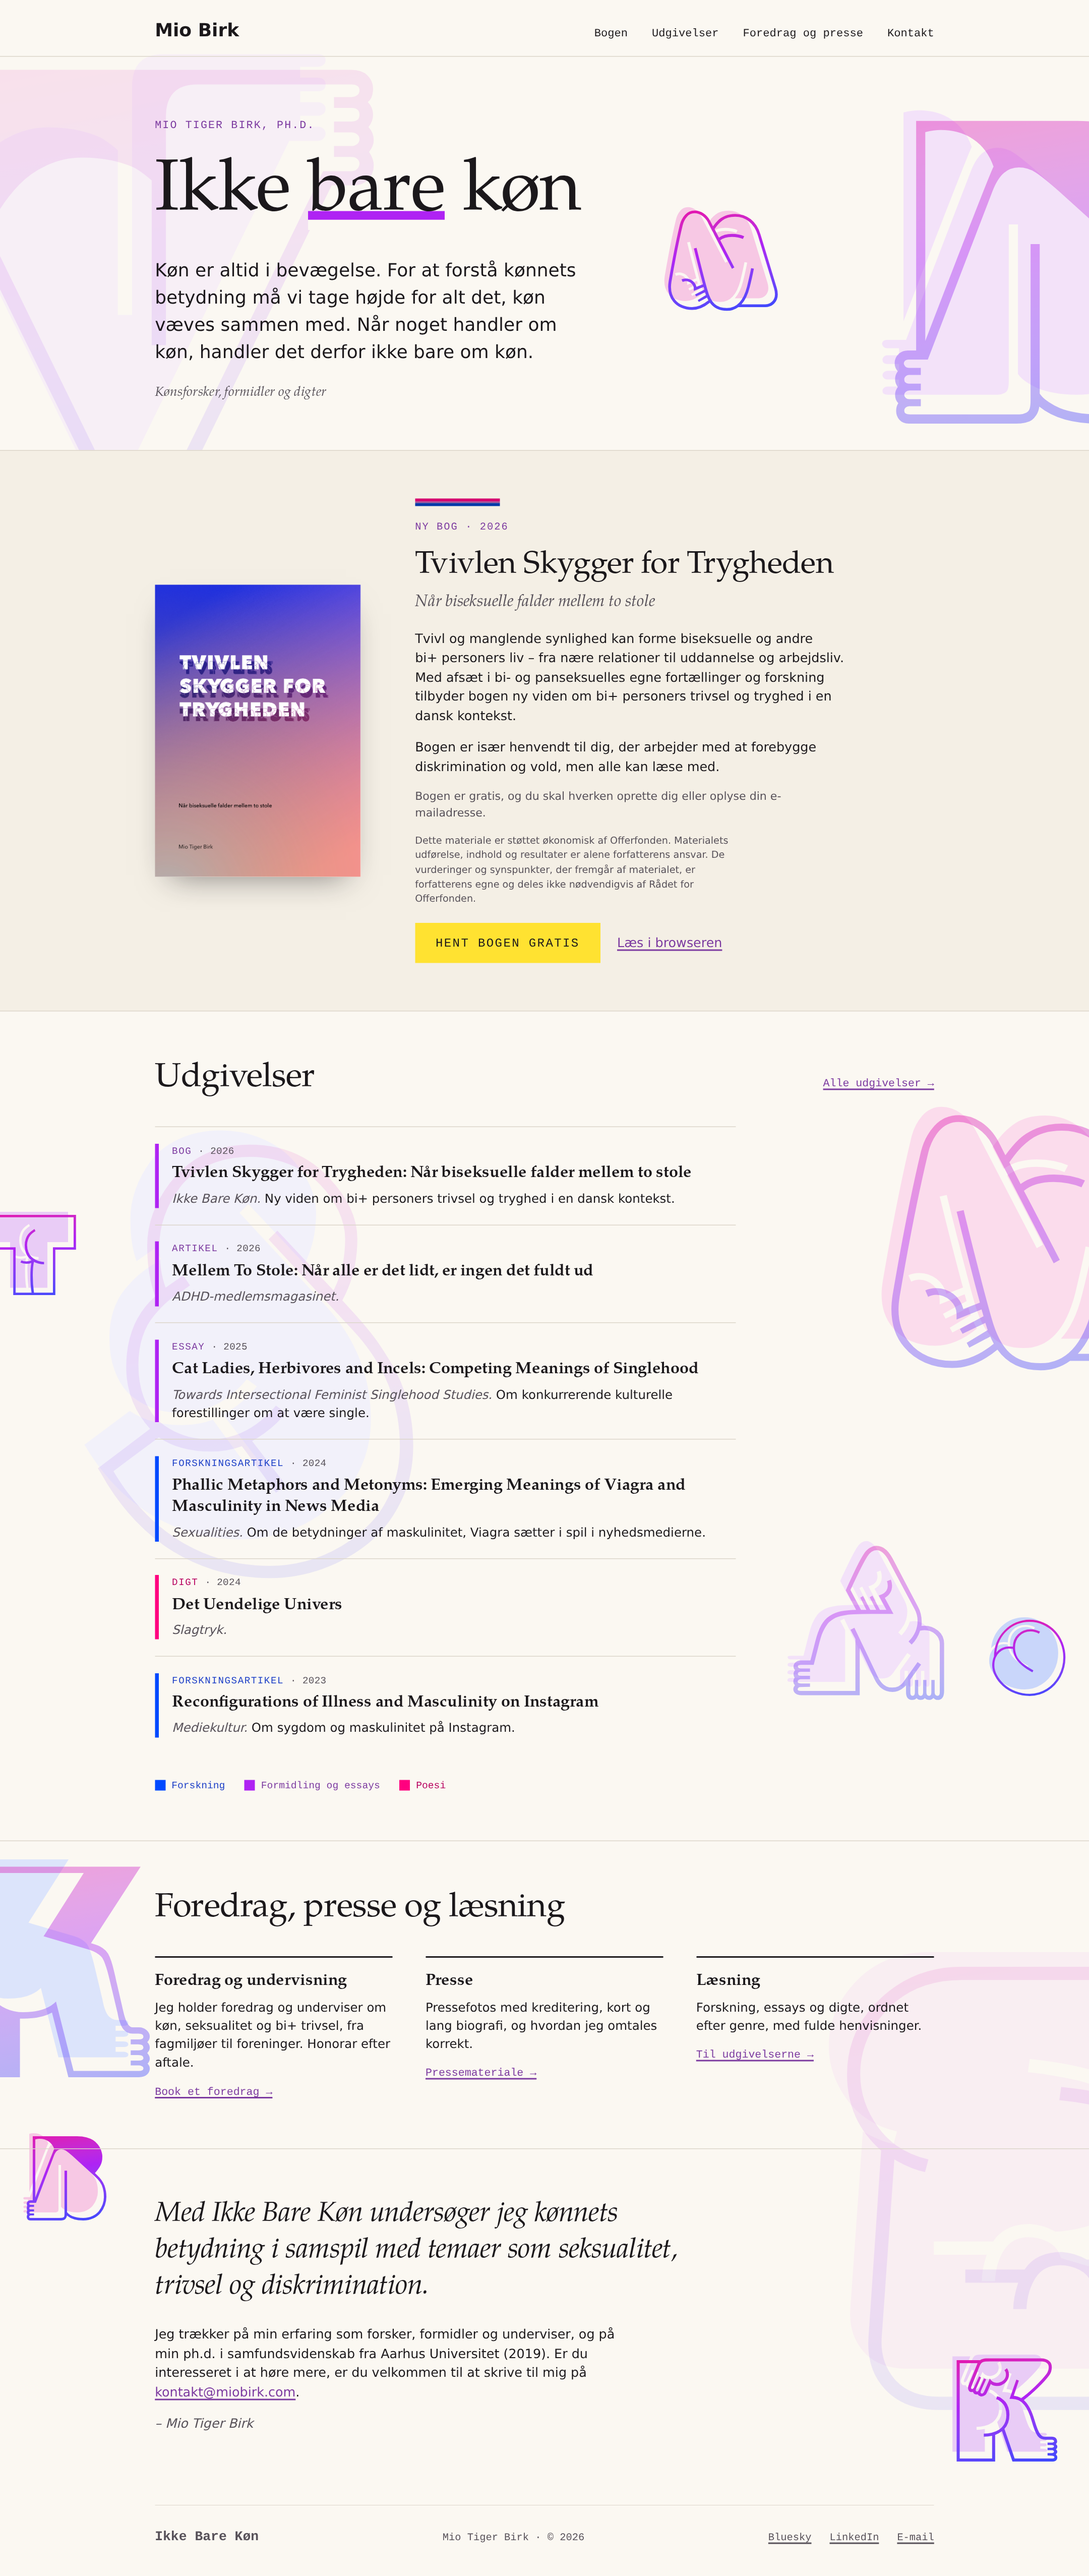
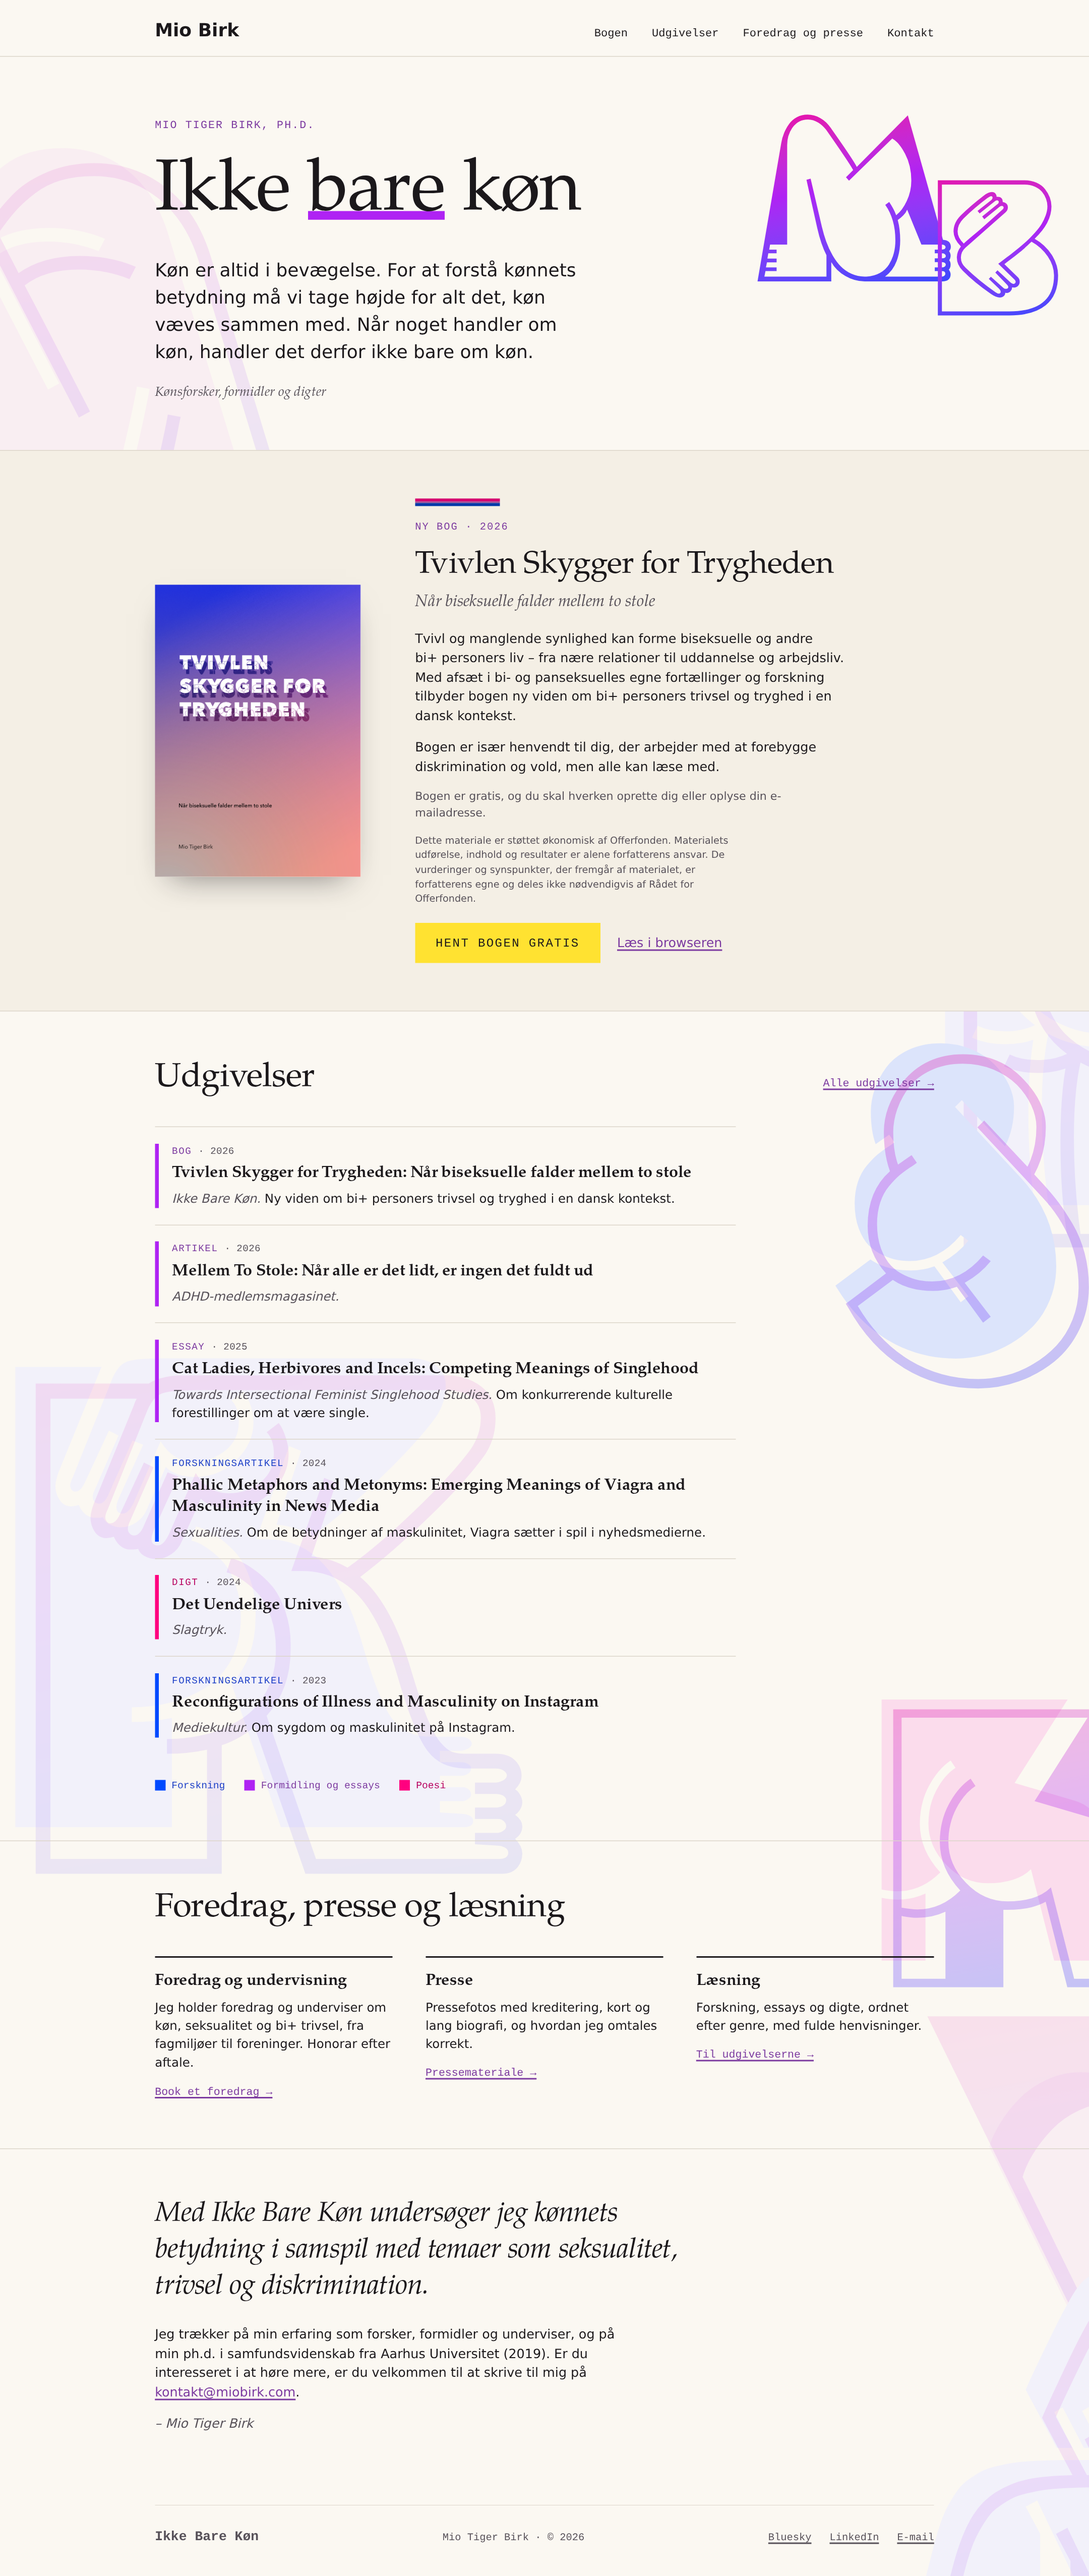
Background: only very large randomised shapes; hero gets an outline duo
Ole found the small pieces too small. The parallax background now
carries only very large shapes (30 to 58rem, eight pieces), positions
generated from a seeded random scatter and nudged to overlap in
pairs; the biggest are almost imperceptible ghosts, the smaller of
the large gently coloured, all pale enough for ink text above. The
small coloured pieces are gone. In their place the hero carries its
own pair: two partially overlapping outline-only Claire-Obscure
glyphs at medium size in the full gradient, no solid layer.

Claude-Session: https://claude.ai/code/session_01J3ibStbM354Uyysr7SDB7m

diff --git a/design/directions/retning-7-overlappet.html b/design/directions/retning-7-overlappet.html
@@ -98,33 +98,29 @@ a:focus-visible{outline:2.5px solid var(--ink);outline-offset:3px}
 }
 .f-pleine{font-family:'Typefesse Pleine',sans-serif}
 .f-claire{font-family:'Typefesse Claire-Obscure',sans-serif}
-/* Inverse scale: the bigger, the fainter; the smaller, the more coloured.
-   Ghost tints sit within a whisker of the paper so ink stays legible
-   above them; full-strength colour is reserved for the small pieces in
-   the margins. */
-.i1{--open:.1}   /* ghosts: almost imperceptible */
-.i2{--open:.4}   /* mid: pale */
-.i3{--open:1}    /* small: coloured */
-/* XL ghosts, slow layer */
-.fesse.g1{font-size:56rem;top:-8rem;left:-12rem;--tint:#F7EFF6}
-.fesse.g2{font-size:48rem;top:84rem;left:4rem;--tint:#F2F1FA}
-.fesse.g3{font-size:52rem;top:150rem;right:-10rem;--tint:#F9EEF2}
-/* L and M, mid layer */
-.fesse.q1{font-size:clamp(20rem,44vw,36rem);top:1rem;right:-7rem;--tint:#F3E2F9}
-.fesse.q3{font-size:clamp(16rem,34vw,28rem);top:86rem;right:-6rem;--tint:#FBDCEC}
-.fesse.q4{font-size:clamp(14rem,30vw,25rem);top:148rem;left:-8rem;--tint:#DCE4FB}
-.fesse.m1{font-size:17rem;top:124rem;right:12rem;--tint:#F3E2F9}
-/* Small and coloured, fast layer, margins and open zones only */
-.fesse.s1{font-size:11rem;top:15rem;right:26rem;--tint:#F7C8E4}
-.fesse.s2{font-size:9.5rem;top:98rem;left:-1.5rem;--tint:#E9CCF6}
-.fesse.s3{font-size:8.5rem;top:132rem;right:2rem;--tint:#C9D6FA}
-.fesse.s4{font-size:10rem;top:174rem;left:1rem;--tint:#F7C8E4}
-.fesse.s5{font-size:12rem;top:192rem;right:3rem;--tint:#E9CCF6}
-@media (max-width:56rem){
-  .fesse.s1,.fesse.s3,.fesse.m1,.fesse.q4{display:none}
-  .fesse{opacity:.6}
-  .fesse.g1,.fesse.g2,.fesse.g3{opacity:1}
-}
+/* Only very large shapes in the background, positions from a seeded
+   random scatter (seed 2026), overlapping in pairs. The biggest are
+   almost imperceptible (ghost tints, outline .1); the smaller of the
+   large are gently coloured (outline .3). All pale enough that ink
+   text stays legible above them. */
+.fesse.r0{font-size:51rem;top:1rem;left:-23rem;--tint:#F9EEF2}
+.fesse.r1{font-size:32rem;top:31rem;left:-6rem;--tint:#FBDCEC}
+.fesse.r2{font-size:53rem;top:53rem;right:-18rem;--tint:#F2F1FA}
+.fesse.r3{font-size:37rem;top:79rem;right:-0rem;--tint:#DCE4FB}
+.fesse.r4{font-size:58rem;top:100rem;left:-4rem;--tint:#F2F1FA}
+.fesse.r5{font-size:33rem;top:133rem;right:-6rem;--tint:#FBDCEC}
+.fesse.r6{font-size:55rem;top:153rem;right:-24rem;--tint:#F9EEF2}
+.fesse.r7{font-size:50rem;top:178rem;right:-20rem;--tint:#F2F1FA}
+@media (max-width:56rem){.fesse{opacity:.7}}
+/* The hero's own pair: two partially overlapping outline-only glyphs at
+   medium size, full gradient, no solid layer. */
+.hero{overflow:hidden}
+.hero .duo{position:absolute;line-height:1;pointer-events:none;user-select:none;
+  background:linear-gradient(170deg,var(--rosa) 0%,var(--lilla) 48%,var(--blaa) 100%);
+  -webkit-background-clip:text;background-clip:text;color:transparent}
+.hero .duo1{font-family:'Typefesse Claire-Obscure',sans-serif;font-size:clamp(11rem,24vw,19rem);top:1.5rem;right:11rem}
+.hero .duo2{font-family:'Typefesse Claire-Obscure',sans-serif;font-size:clamp(9rem,20vw,16rem);top:7rem;right:2rem}
+@media (max-width:56rem){.hero .duo1{right:-4rem}.hero .duo2{display:none}}
 header,main,footer{position:relative;z-index:1}
 
 /* Masthead */
@@ -232,22 +228,16 @@ footer .flinks{display:flex;gap:1.5rem}
 
 <div class="fesse-sky" aria-hidden="true">
   <div class="fesse-layer" data-speed="0.12">
-    <span class="fesse g1"><b class="f-pleine f-solid">V</b><b class="f-claire f-open i1">V</b></span>
-    <span class="fesse g2"><b class="f-pleine f-solid">s</b><b class="f-claire f-open i1">s</b></span>
-    <span class="fesse g3"><b class="f-pleine f-solid">e</b><b class="f-claire f-open i1">e</b></span>
+    <span class="fesse r0"><b class="f-pleine f-solid">m</b><b class="f-claire f-open" style="--open:.1">m</b></span>
+    <span class="fesse r2"><b class="f-pleine f-solid">t</b><b class="f-claire f-open" style="--open:.1">t</b></span>
+    <span class="fesse r4"><b class="f-pleine f-solid">k</b><b class="f-claire f-open" style="--open:.1">k</b></span>
+    <span class="fesse r6"><b class="f-pleine f-solid">V</b><b class="f-claire f-open" style="--open:.1">V</b></span>
+    <span class="fesse r7"><b class="f-pleine f-solid">a</b><b class="f-claire f-open" style="--open:.1">a</b></span>
   </div>
-  <div class="fesse-layer" data-speed="0.26">
-    <span class="fesse q1"><b class="f-pleine f-solid">B</b><b class="f-claire f-open i2">B</b></span>
-    <span class="fesse q3"><b class="f-pleine f-solid">m</b><b class="f-claire f-open i2">m</b></span>
-    <span class="fesse q4"><b class="f-pleine f-solid">K</b><b class="f-claire f-open i2">K</b></span>
-    <span class="fesse m1"><b class="f-pleine f-solid">a</b><b class="f-claire f-open i2">a</b></span>
-  </div>
-  <div class="fesse-layer" data-speed="0.4">
-    <span class="fesse s1"><b class="f-pleine f-solid">m</b><b class="f-claire f-open i3">m</b></span>
-    <span class="fesse s2"><b class="f-pleine f-solid">t</b><b class="f-claire f-open i3">t</b></span>
-    <span class="fesse s3"><b class="f-pleine f-solid">o</b><b class="f-claire f-open i3">o</b></span>
-    <span class="fesse s4"><b class="f-pleine f-solid">B</b><b class="f-claire f-open i3">B</b></span>
-    <span class="fesse s5"><b class="f-pleine f-solid">k</b><b class="f-claire f-open i3">k</b></span>
+  <div class="fesse-layer" data-speed="0.25">
+    <span class="fesse r1"><b class="f-pleine f-solid">o</b><b class="f-claire f-open" style="--open:.3">o</b></span>
+    <span class="fesse r3"><b class="f-pleine f-solid">s</b><b class="f-claire f-open" style="--open:.3">s</b></span>
+    <span class="fesse r5"><b class="f-pleine f-solid">K</b><b class="f-claire f-open" style="--open:.3">K</b></span>
   </div>
 </div>
 
@@ -269,6 +259,8 @@ footer .flinks{display:flex;gap:1.5rem}
 
 <main id="indhold">
   <section class="hero">
+    <span class="duo duo1" aria-hidden="true">M</span>
+    <span class="duo duo2" aria-hidden="true">b</span>
     <div class="wrap">
       <p class="kicker">Mio Tiger Birk, ph.d.</p>
       <h1>Ikke <span class="u">bare</span> køn</h1>

diff --git a/design/TYPOGRAPHY-COLOUR.md b/design/TYPOGRAPHY-COLOUR.md
@@ -189,15 +189,15 @@ Charset, measured from the shipped woff2 cmaps (173 glyphs): basic Latin
 plus Western European accents; **no æ, ø, Æ or Ø** (å and Å exist).
 Vignettes therefore use base Latin characters only.
 
-The site's implementation: a document-spanning background of twelve
-compositions on an inverse size-to-colour scale. XL ghosts (48 to 56rem)
-sit a whisker off the paper (outline opacity .1) and may pass under
-text; mid pieces (17 to 36rem) are pale (outline .4) and hold the
-edges; the small pieces (8.5 to 12rem) carry full gradient colour and
-live only in margins and open zones. Each composition stacks a solid
-Pleine tint under a gradient Claire or Obscure form offset like the
-book cover's shadow play. Three depth layers parallax-scroll at 0.12,
-0.26 and 0.40 of scroll speed; static without JavaScript and under
-prefers-reduced-motion. The rule that governs the whole layer: ink text
-must stay legible above every piece, so colour strength is inversely
-tied to size and to proximity to text.
+The site's implementation, final form: the background carries only very
+large shapes (30 to 58rem), eight of them, positions from a seeded
+random scatter (seed 2026) nudged so they overlap in pairs. The biggest
+are almost imperceptible (ghost tints, outline opacity .1); the smaller
+of the large are gently coloured (outline .3); all are pale enough that
+ink text stays legible above them. Each stacks a solid Pleine tint
+under a gradient Claire or Obscure form offset like the book cover's
+shadow play. Two depth layers parallax at 0.12 and 0.25 of scroll
+speed; static without JavaScript and under prefers-reduced-motion.
+Separate from the parallax, the hero carries its own pair: two
+partially overlapping outline-only Claire-Obscure glyphs at medium
+size (16 to 19rem) in the full gradient, with no solid layer.
